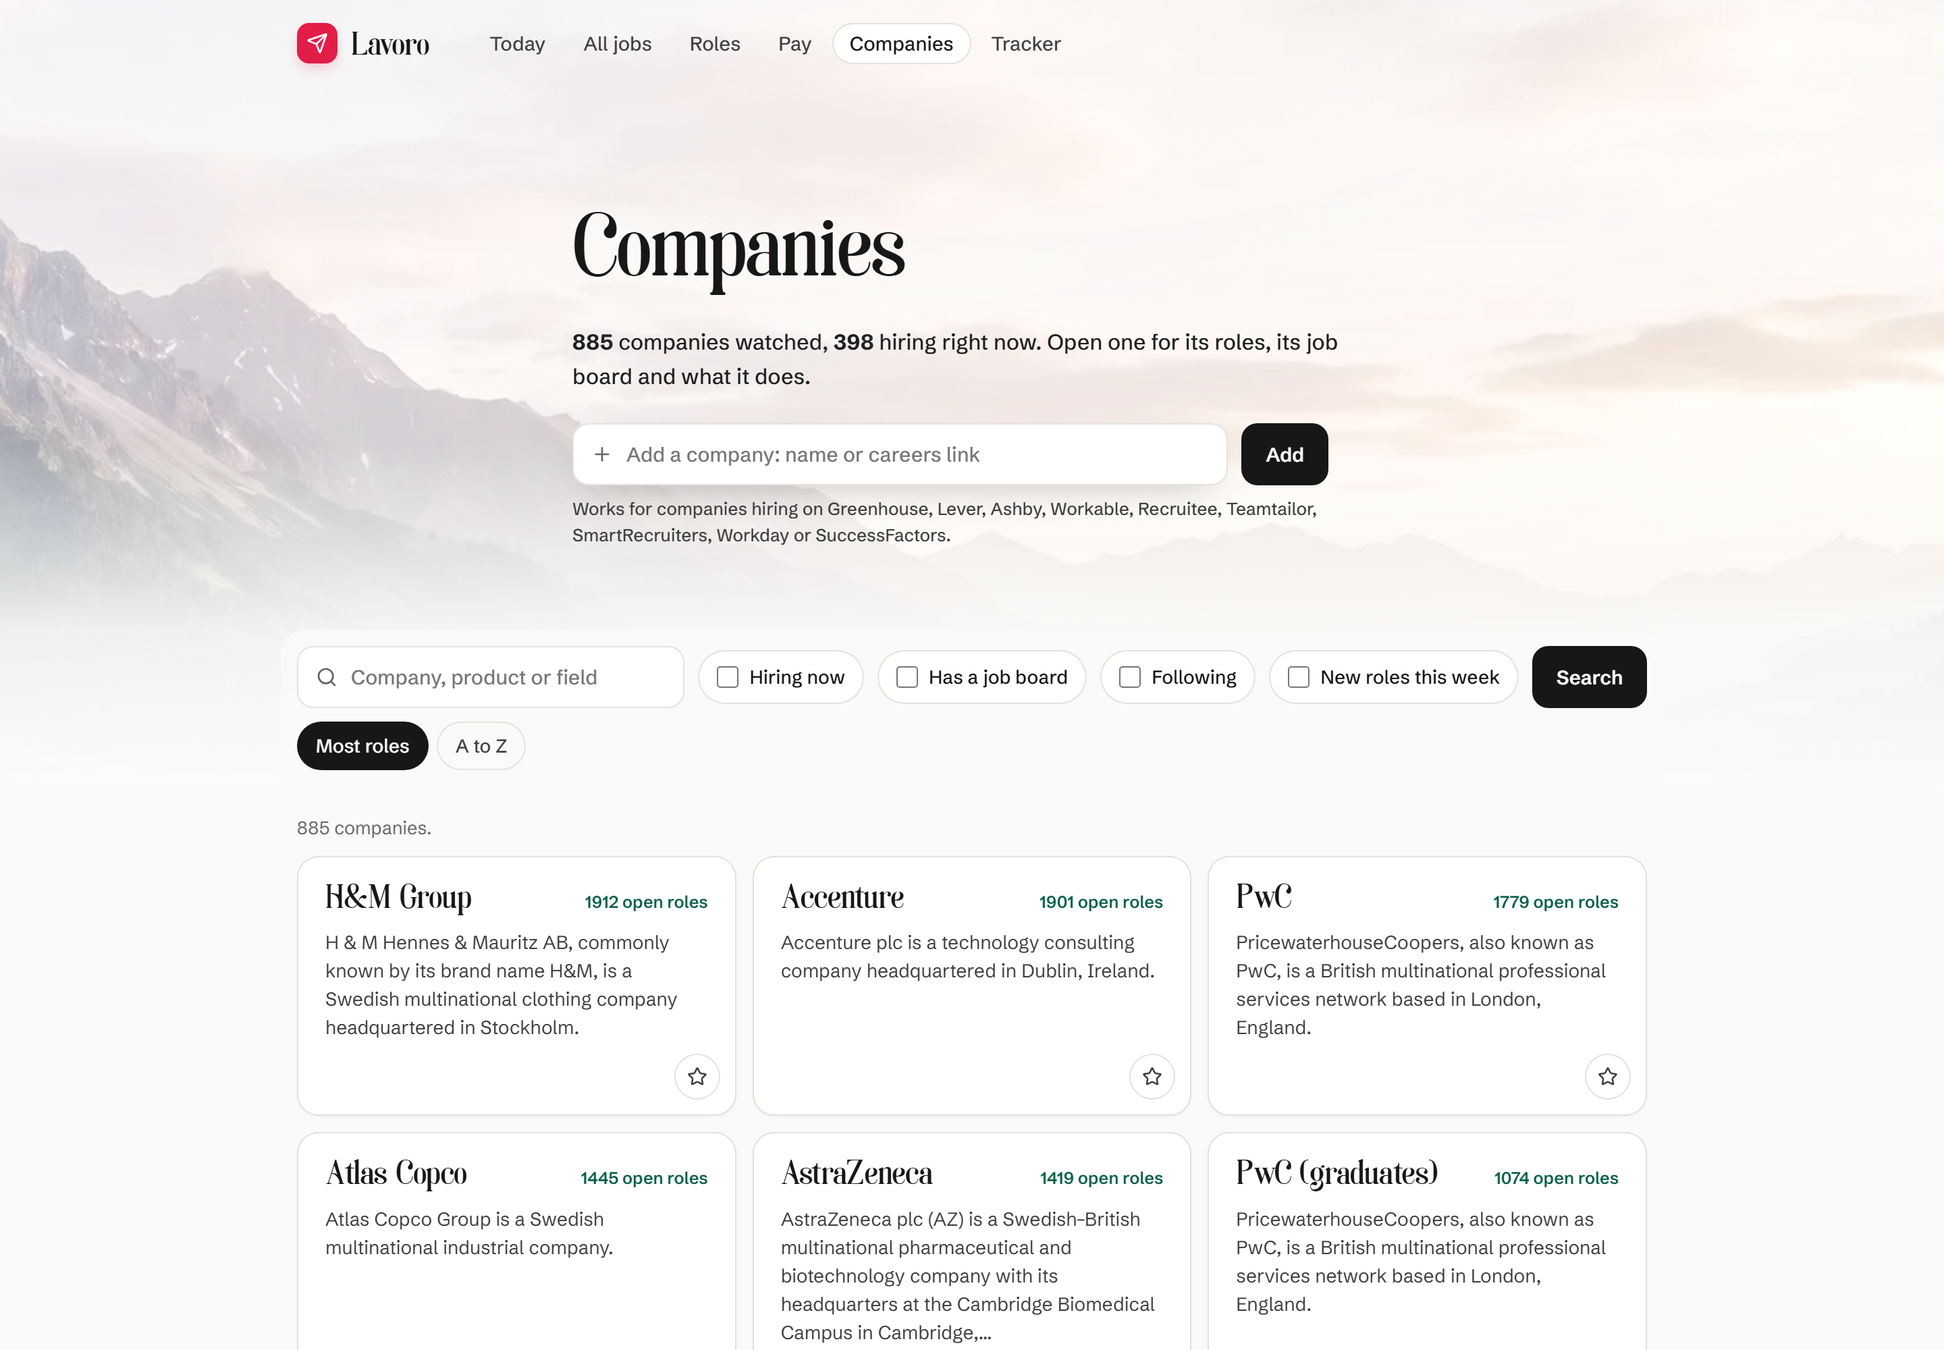
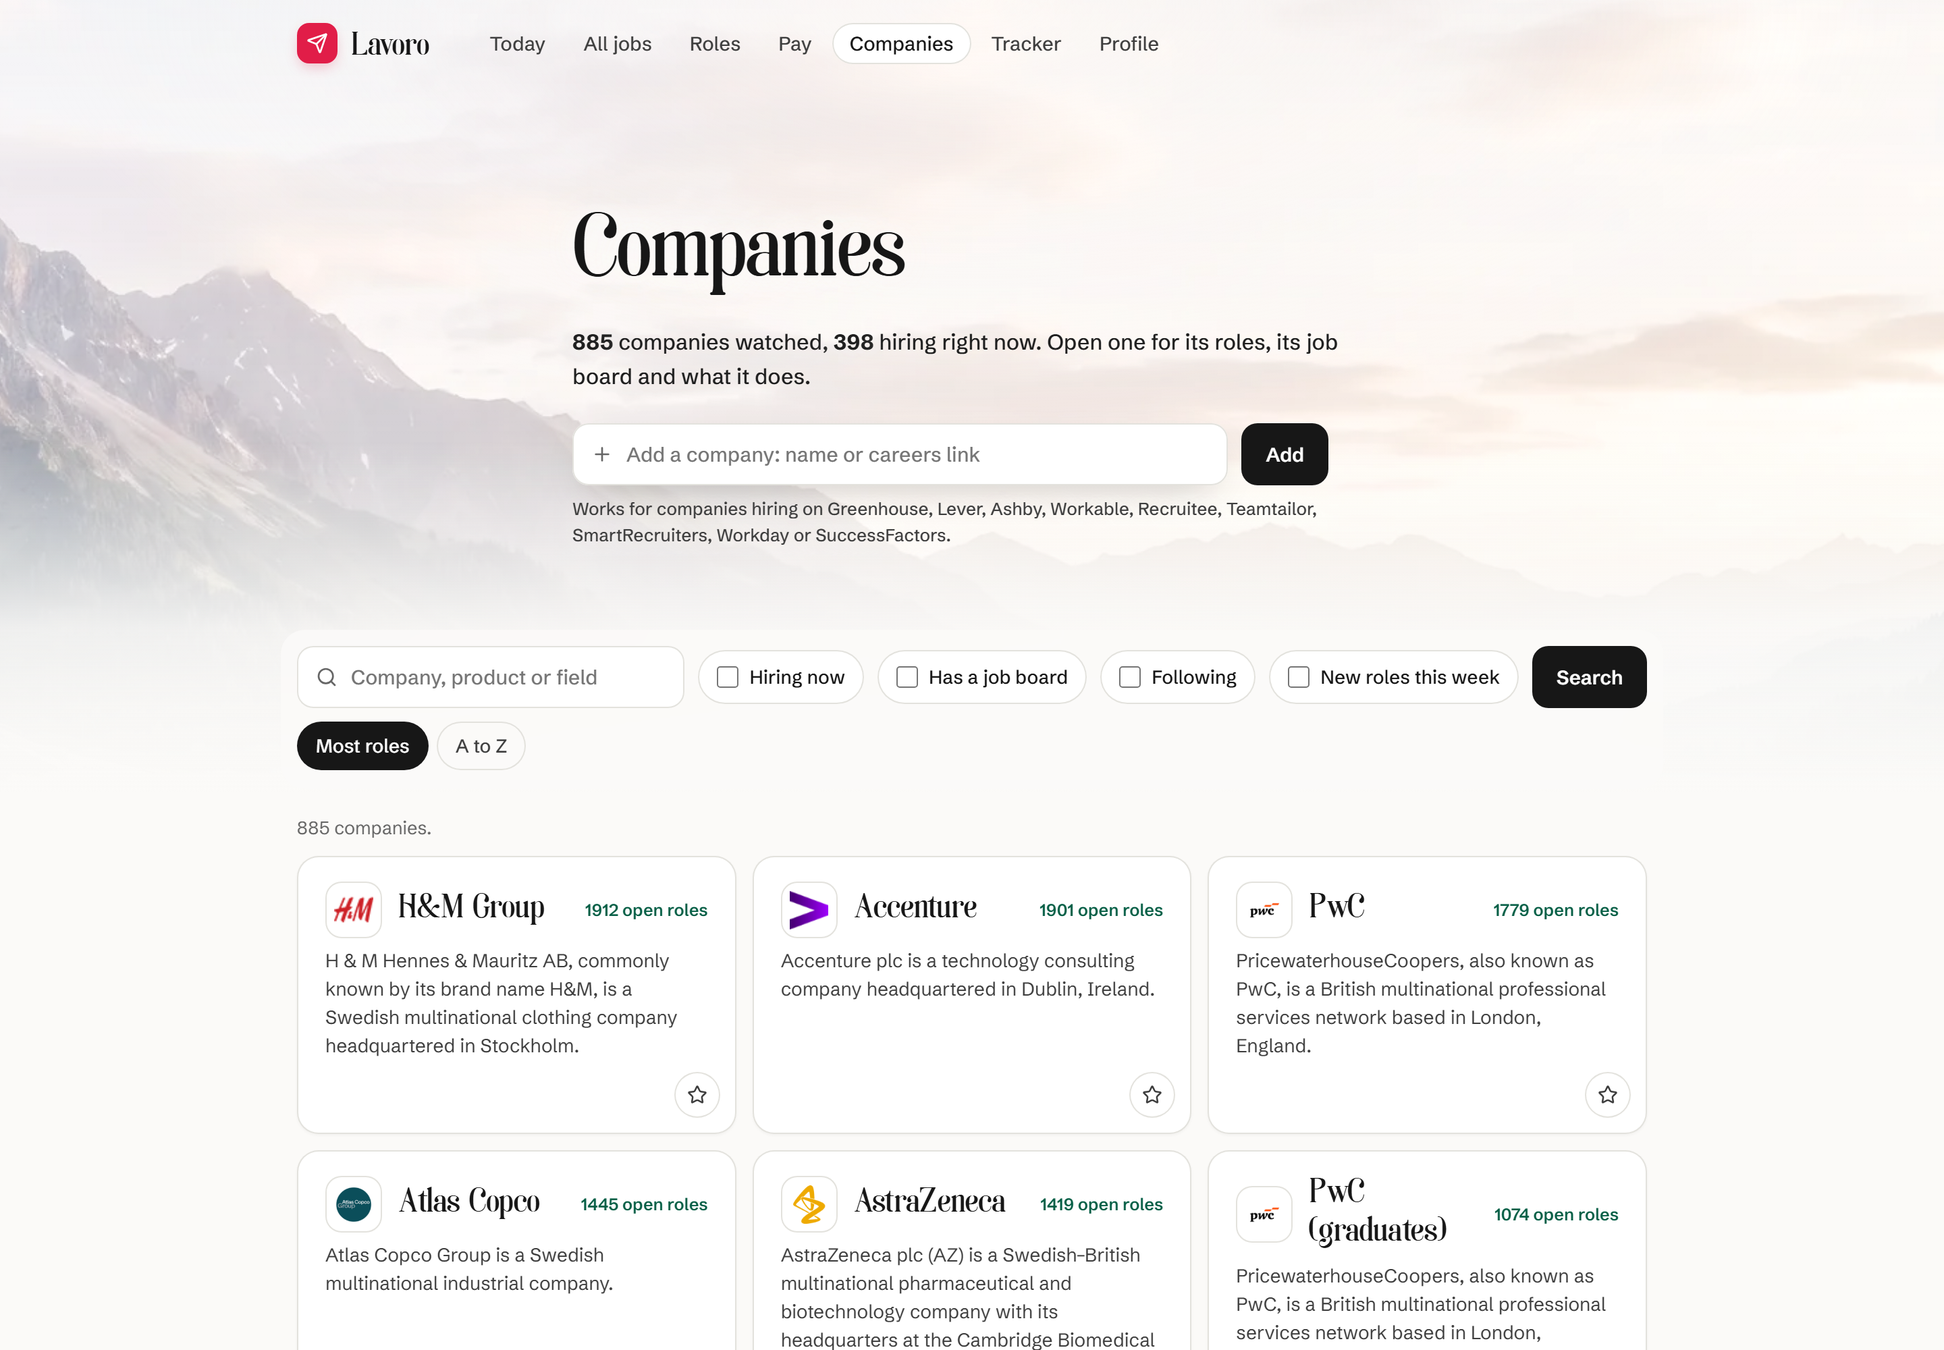
Profile page: see your profile, change search settings, build it again
- New /profile page, in the top bar: profile.md shown as a readable page
  with TODO lines marked, where it was built from, buttons to build it
  again from a new CV or portfolio link, an editor for what Lavoro
  searches for (saved to config.yaml, no run started), and the earlier
  versions kept in data/.
- The setup page offers "Back to your profile" when one already exists.
- Saving preferences no longer cuts role and place lists to 30 entries,
  and a save from the Profile page keeps hand-tuned Platsbanken queries.
- Retake four screenshots with the new company header and logos.

diff --git a/lavoro/profilepage.py b/lavoro/profilepage.py
@@ -1,0 +1,229 @@
+"""/profile: the profile Lavoro scores roles against and writes emails from, and what it searches for.
+
+Shows profile.md as a readable page, lets you change the search settings in config.yaml without starting a run,
+and links to the setup page to build the profile again from a new CV or portfolio link (the old profile is
+backed up first). Everything here stays on this computer.
+"""
+from __future__ import annotations
+
+import html
+import re
+from datetime import datetime
+from pathlib import Path
+
+from . import regions
+from .browse import _page
+from .config import ROOT
+from .digest import ago, e
+
+CSS = r"""
+.eyebrow{margin:0 0 10px;font:600 12px var(--sans);letter-spacing:.08em;text-transform:uppercase;color:var(--mute)}
+.pf-lede{margin:14px 0 0;color:var(--ink-2);font-size:17px;line-height:1.55;max-width:62ch}
+.pf-meta{margin:14px 0 0;font-size:13.5px;color:var(--mute)}
+.pf-acts{display:flex;flex-wrap:wrap;gap:10px;margin-top:22px}
+.pf-btn{display:inline-flex;align-items:center;gap:8px;height:44px;padding:0 18px;border-radius:999px;text-decoration:none;
+  font:600 14.5px var(--sans);color:var(--ink);background:rgba(255,255,255,.6);-webkit-backdrop-filter:blur(10px);backdrop-filter:blur(10px);
+  box-shadow:0 0 0 1px rgba(23,23,23,.12) inset;border:0;cursor:pointer}
+.pf-btn:hover{background:#fff;box-shadow:0 0 0 1px rgba(23,23,23,.3) inset}
+.pf-btn.main{background:var(--ink);color:#fff;box-shadow:none}.pf-btn.main:hover{background:#000}
+.pf-btn svg{width:16px;height:16px}
+.pf-note{margin:12px 0 0;font-size:13px;color:var(--mute);max-width:62ch}
+.pf-grid{display:grid;grid-template-columns:minmax(0,1fr) 380px;gap:24px;align-items:start;margin-top:8px}
+.pf-side{position:sticky;top:84px;display:flex;flex-direction:column;gap:20px}
+.pf-card{background:#fff;border-radius:20px;box-shadow:0 0 0 1px var(--line) inset;padding:26px 28px}
+.pf-card>h2{margin:0 0 4px}.pf-card>.sub{margin:0 0 18px}
+.todo-n{display:inline-flex;align-items:center;height:28px;padding:0 12px;border-radius:999px;font:600 13px var(--sans);
+  background:var(--amber-wash);color:var(--amber-ink);margin-left:8px;vertical-align:4px}
+.doc{font-size:15px;line-height:1.65;color:var(--ink-2)}
+.doc h1{display:none}
+.doc h2{margin:26px 0 8px;font:400 26px/1.15 var(--serif);color:var(--ink);letter-spacing:-.01em}
+.doc h2:first-child{margin-top:0}
+.doc h3{margin:18px 0 6px;font:600 15.5px/1.35 var(--sans);color:var(--ink)}
+.doc p{margin:0 0 10px}
+.doc ul{margin:0 0 10px;padding-left:20px}.doc li{margin:4px 0}
+.doc strong{color:var(--ink);font-weight:600}
+.doc a{color:var(--ink);text-underline-offset:3px;word-break:break-word}
+.doc .todo{background:var(--amber-wash);color:var(--amber-ink);border-radius:6px;padding:1px 5px}
+.form{display:flex;flex-direction:column;gap:14px}
+.form label{display:flex;flex-direction:column;gap:6px;font:600 13px var(--sans);color:var(--ink-2)}
+.form label small{font-weight:400;color:var(--mute)}
+.form input[type=text],.form input[type=url],.form textarea,.form select{font:400 14.5px var(--sans);color:var(--ink);background:var(--inset);
+  border:0;border-radius:12px;padding:11px 13px;box-shadow:0 0 0 1px var(--line) inset;width:100%;box-sizing:border-box}
+.form textarea{resize:vertical;min-height:72px;line-height:1.45}
+.form input:focus,.form textarea:focus,.form select:focus{outline:2px solid var(--ink);outline-offset:1px;background:#fff}
+.form .check{flex-direction:row;align-items:center;gap:10px;font-weight:500;color:var(--ink)}
+.form .check input{width:18px;height:18px;accent-color:var(--ink)}
+.form .save{align-self:flex-start;height:42px;padding:0 20px;border:0;border-radius:12px;background:var(--ink);color:#fff;
+  font:600 14px var(--sans);cursor:pointer}
+.form .save:hover{background:#000}.form .save[disabled]{opacity:.6;cursor:progress}
+.form .err{display:none;margin:0;font-size:13.5px;color:var(--rose-ink)}.form .err.on{display:block}
+.olds{margin:0;padding:0;list-style:none;font-size:13.5px;color:var(--ink-2)}
+.olds li{padding:8px 0;border-top:1px solid var(--line)}.olds li:first-child{border-top:0;padding-top:0}
+.olds code{font-size:12px;color:var(--mute);background:none;padding:0}
+@media (max-width:980px){.pf-grid{grid-template-columns:minmax(0,1fr)}.pf-side{position:static}}
+@media (max-width:640px){.pf-card{padding:20px 16px}}
+"""
+
+JS = r"""
+(()=>{
+const form=document.getElementById('prefs');if(!form)return;
+const list=s=>s.split(/[\n,;]+/).map(x=>x.trim()).filter(Boolean);
+const err=form.querySelector('.err'), save=form.querySelector('.save');
+let region=form.region.value;
+form.addEventListener('submit',async ev=>{ev.preventDefault();err.classList.remove('on');save.disabled=true;
+  try{
+    await api('/api/preferences',{name:form.name.value,portfolio:form.portfolio.value,linkedin:form.linkedin.value,
+      titles:list(form.titles.value),locations:list(form.locations.value),remote_ok:form.remote.checked,in_sweden:form.sweden.checked,keep_queries:true});
+    let extra='';
+    if(form.region.value!==region){const r=await api('/api/region',{region:form.region.value});region=form.region.value;
+      extra=r.reopened?` ${r.reopened.toLocaleString()} earlier roles will be checked again.`:''}
+    say('Saved. The next run searches with these.'+extra)}
+  catch(e){err.textContent=e.message||'Could not save.';err.classList.add('on')}
+  finally{save.disabled=false}});
+})();
+"""
+
+
+# ---------------------------------------------------------------- profile.md → html
+_LINK = re.compile(r"\[([^\]]+)\]\((https?://[^)\s]+)\)")
+_URL = re.compile(r"(?<![\"'>=])(https?://[^\s<)]+)")
+
+
+def _inline(text: str) -> str:
+    s = html.escape(text, quote=False)
+    s = _LINK.sub(lambda m: f'<a href="{m.group(2)}" target="_blank" rel="noopener">{m.group(1)}</a>', s)
+    s = _URL.sub(lambda m: f'<a href="{m.group(1)}" target="_blank" rel="noopener">{m.group(1)}</a>', s)
+    s = re.sub(r"\*\*(.+?)\*\*", r"<strong>\1</strong>", s)
+    s = re.sub(r"(?<![\w*])\*(?!\s)(.+?)(?<!\s)\*(?![\w*])", r"<em>\1</em>", s)
+    s = re.sub(r"\bTODO\b[^<]*", lambda m: f'<span class="todo">{m.group(0)}</span>', s)
+    return s
+
+
+def to_html(md: str) -> str:
+    """The small part of Markdown profile.md uses: headings, bullets, bold, links, paragraphs."""
+    out, para, items = [], [], []
+
+    def flush():
+        if para:
+            out.append(f"<p>{_inline(' '.join(para))}</p>")
+            para.clear()
+        if items:
+            out.append("<ul>" + "".join(f"<li>{_inline(i)}</li>" for i in items) + "</ul>")
+            items.clear()
+
+    for raw in md.splitlines():
+        line = raw.rstrip()
+        m = re.match(r"^(#{1,3})\s+(.*)", line)
+        if m:
+            flush()
+            n = len(m.group(1))
+            out.append(f"<h{n}>{_inline(m.group(2))}</h{n}>")
+        elif re.match(r"^\s*[-*]\s+", line):
+            if para:
+                flush()
+            items.append(re.sub(r"^\s*[-*]\s+", "", line))
+        elif line.startswith((" ", "\t")) and items and line.strip():
+            items[-1] += " " + line.strip()  # a bullet that wraps onto the next line
+        elif not line.strip():
+            flush()
+        else:
+            if items:
+                flush()
+            para.append(line.strip())
+    flush()
+    return "".join(out)
+
+
+def _split_header(text: str) -> tuple[str, str]:
+    """(the note Lavoro wrote at the top, the profile itself)."""
+    m = re.match(r"\s*<!--(.*?)-->", text, re.S)
+    return (m.group(1).strip(), text[m.end():]) if m else ("", text)
+
+
+def _date(iso: str) -> str:
+    d = datetime.strptime(iso, "%Y-%m-%d")
+    return f"{d.day} {d:%B %Y}"
+
+
+def _backups() -> list[tuple[datetime, Path]]:
+    out = []
+    for p in (ROOT / "data").glob("profile.backup-*.md"):
+        m = re.search(r"(\d{8})-(\d{6})", p.name)
+        if m:
+            out.append((datetime.strptime(m.group(1) + m.group(2), "%Y%m%d%H%M%S"), p))
+    return sorted(out, reverse=True)
+
+
+# ---------------------------------------------------------------- the page
+def render(cfg) -> str:
+    me, search = cfg.get("me", {}) or {}, cfg.get("search", {}) or {}
+    path = ROOT / me.get("profile_file", "profile.md")
+    text = path.read_text(encoding="utf-8") if path.exists() else ""
+    note, md = _split_header(text)
+    todos = len(re.findall(r"\bTODO\b", md))
+    headline = ""
+    m = re.search(r"^##\s+Headline\s*\n+(.+?)(?:\n\s*\n|\n##)", md, re.S | re.M)
+    if m:
+        headline = " ".join(m.group(1).split())
+        headline = re.split(r"(?<=[.!?])\s", headline)[0]
+
+    src = ""
+    flat = " ".join(note.split())
+    sm = re.search(r"Built (?:by Lavoro )?(?:from (?P<a>.+?) )?on (?P<d>\d{4}-\d{2}-\d{2})(?: from (?P<b>.+?)\.(?:\s|$))?", flat)
+    if sm:
+        frm = (sm.group("a") or sm.group("b") or "").strip()
+        frm = frm if len(frm) <= 140 else frm[:137].rsplit(" ", 1)[0] + "…"
+        src = f"Built from {frm} on {_date(sm.group('d'))}." if frm else f"Built on {_date(sm.group('d'))}."
+    changed = ""
+    if path.exists():
+        changed = f"Last changed {ago(datetime.fromtimestamp(path.stat().st_mtime).isoformat())}."
+    meta = " ".join(x for x in (src, changed) if x)
+
+    name = (me.get("name") or "").strip()
+    hero = (f'<p class="eyebrow">Your profile</p><h1>{e(name) if name else "Your profile"}</h1>'
+            + (f'<p class="pf-lede">{e(headline)}</p>' if headline else "")
+            + (f'<p class="pf-meta">{e(meta)}</p>' if meta else "")
+            + f'<div class="pf-acts"><a class="pf-btn main" href="/welcome">Upload a new CV</a><a class="pf-btn" href="/welcome">Use a portfolio link</a></div>'
+            + '<p class="pf-note">Lavoro reads it and builds your profile again. Your current profile is kept as a backup '
+              'first, and your jobs, tracker and drafts stay as they are.</p>')
+
+    doc = to_html(md) if md.strip() else '<p>No profile yet. Upload a CV to make one.</p>'
+    profile_card = (f'<section class="pf-card"><h2>What Lavoro knows about you'
+                    + (f'<span class="todo-n">{todos} to fill in</span>' if todos else "") + '</h2>'
+                    f'<p class="sub">Every role is scored against this, and every email is written from it. Lavoro never '
+                    f'adds facts of its own. To change a line, edit <code>{e(path.name)}</code> in the Lavoro folder.</p>'
+                    f'<div class="doc">{doc}</div></section>')
+
+    titles = search.get("titles_include") or []
+    places = search.get("locations_include") or []
+    cur = regions.current(cfg)
+    opts = "".join(f'<option value="{k}"{" selected" if k == cur else ""}>{e(v)}</option>' for k, v in regions.LABELS.items())
+    jobtech = (search.get("jobtech") or {}).get("enabled", False)
+    form = (f'<section class="pf-card"><h2>What Lavoro looks for</h2>'
+            f'<p class="sub">Saved to <code>config.yaml</code>. The next run uses them; saving does not start one.</p>'
+            f'<form id="prefs" class="form" novalidate>'
+            f'<label>Your name<input type="text" name="name" value="{e(name)}" autocomplete="name"></label>'
+            f'<label>Roles to search for <small>One per line, or separated by commas.</small>'
+            f'<textarea name="titles" rows="7">{e(chr(10).join(titles))}</textarea></label>'
+            f'<label>Places <small>Cities or countries, one per line.</small>'
+            f'<textarea name="locations" rows="5">{e(chr(10).join(p for p in places if p != "remote"))}</textarea></label>'
+            f'<label>Region<select name="region">{opts}</select></label>'
+            f'<label class="check"><input type="checkbox" name="remote"{" checked" if search.get("remote_ok", True) else ""}>'
+            f'Remote roles are fine</label>'
+            f'<label class="check"><input type="checkbox" name="sweden"{" checked" if jobtech else ""}>'
+            f'Also search Platsbanken (Sweden)</label>'
+            f'<label>Portfolio<input type="url" name="portfolio" value="{e(me.get("portfolio") or "")}"></label>'
+            f'<label>LinkedIn<input type="url" name="linkedin" value="{e(me.get("linkedin") or "")}"></label>'
+            f'<p class="err" role="alert"></p><button class="save" type="submit">Save</button></form></section>')
+
+    olds = _backups()
+    old_card = ""
+    if olds:
+        items = "".join(f'<li>{d.day} {d:%B %Y}, {d:%H:%M}<br><code>data/{e(p.name)}</code></li>' for d, p in olds[:6])
+        more = f'<p class="pf-note">And {len(olds) - 6} older.</p>' if len(olds) > 6 else ""
+        old_card = (f'<section class="pf-card"><h2>Earlier versions</h2><p class="sub">Kept each time the profile was built '
+                    f'again. Copy one back over <code>{e(path.name)}</code> to return to it.</p><ul class="olds">{items}</ul>{more}</section>')
+
+    body = (f'<style>{CSS}</style><div class="pf-grid">{profile_card}<div class="pf-side">{form}{old_card}</div></div>')
+    return _page("Lavoro · Your profile", "/profile", hero, body).replace("</body>", f"<script>{JS}</script></body>", 1)
+

diff --git a/lavoro/onboard.py b/lavoro/onboard.py
@@ -265,6 +265,7 @@ class Preferences(BaseModel):
     locations: list[str] = []
     remote_ok: bool = True
     in_sweden: bool = False
+    keep_queries: bool = False      # the Profile page: leave hand-tuned Platsbanken searches alone
 
 
 def _clean_list(xs: list[str], limit: int = 30) -> list[str]:
@@ -280,8 +281,8 @@ def save_preferences(p: Preferences) -> None:
     cfg_path = ROOT / "config.yaml"
     text = cfg_path.read_text(encoding="utf-8")
     places = [part for loc in p.locations for part in re.split(r"[,/()]+", str(loc))]
-    titles = _clean_list(p.titles)
-    locs = [x for x in _clean_list(places) if x != "remote" and not x.startswith("remote ")]
+    titles = _clean_list(p.titles, 100)
+    locs = [x for x in _clean_list(places, 100) if x != "remote" and not x.startswith("remote ")]
     if not titles:
         raise SetupError("Add at least one role to search for.")
     if p.linkedin and not _is_linkedin(p.linkedin):
@@ -296,7 +297,10 @@ def save_preferences(p: Preferences) -> None:
         (["search", "jobtech", "enabled"], bool(p.in_sweden)),
     ]
     if p.in_sweden:
-        edits.append((["search", "jobtech", "queries"], titles[:8]))
+        import yaml
+        current = ((yaml.safe_load(text) or {}).get("search", {}).get("jobtech") or {}).get("queries")
+        if not (p.keep_queries and current):  # setup starts them from the roles; later saves keep yours
+            edits.append((["search", "jobtech", "queries"], titles[:8]))
     for path, value in edits:
         try:
             text = set_yaml(text, path, value)

diff --git a/lavoro/server.py b/lavoro/server.py
@@ -12,6 +12,7 @@ POST /api/profile/upload     {"name": "cv.pdf", "data": "<base64>"}  → builds 
 POST /api/profile/link       {"url": "https://..."}                   → builds profile.md from a portfolio site
 POST /api/preferences        {"titles": [...], "locations": [...], ...} → saves search settings to config.yaml
 GET  /tracker, /tracker.csv   the pipeline tracker, and its CSV download
+GET  /profile                your profile, what Lavoro searches for, and a way to build the profile again
 POST /api/pipeline           {"track": key} | {"add": true, company, title, url} | {"id", "field", "value"} | {"id", "remove": true}
 POST /api/write              {"id", "kind": "kit" | "followup"} Claude writes an application kit or a follow-up
 POST /api/mark               {"key": ..., "status": "sent" | "skipped" | "drafted"}
@@ -208,6 +209,9 @@ def make_handler(port: int):
                 finally:
                     con.close()
                 return self._send(200, page.encode("utf-8"), "text/html; charset=utf-8")
+            if path == "/profile":  # your profile and what Lavoro searches for
+                from . import profilepage
+                return self._send(200, profilepage.render(self._cfg()).encode("utf-8"), "text/html; charset=utf-8")
             if path in ("/terms", "/privacy"):  # short links to the matching part of /legal
                 self.send_response(302)
                 self.send_header("Location", "/legal" + ("#privacy" if path == "/privacy" else ""))

diff --git a/lavoro/welcome.py b/lavoro/welcome.py
@@ -418,11 +418,15 @@ if(location.hash==='#run'){show('go');poll2()}
 
 def render(cfg) -> str:
     check = icon("check")
+    from .onboard import needs_setup
+    # Someone who already has a profile came here to build it again: give them a way back without changing anything.
+    right = ('<a class="pill" href="/profile">Back to your profile</a>' if not needs_setup(cfg)
+             else '<span class="pill quiet">Runs on your computer</span>')
     return f"""{head("Lavoro · Welcome")}<style>{CSS}</style></head>
 <body class="welcome" data-live="1">
 {scene()}
 <div class="bar"><div class="wrap"><span class="brand"><span class="mark">{icon("send")}</span><span class="wm">Lavoro</span></span>
-<span class="bar-right"><span class="pill quiet">Runs on your computer</span></span></div></div>
+<span class="bar-right">{right}</span></div></div>
 <template id="xicon">{ic("x")}</template>
 <div class="dropzone" aria-hidden="true"><p>Drop your CV to start</p></div>
 

diff --git a/lavoro/digest.py b/lavoro/digest.py
@@ -431,7 +431,7 @@ def scene() -> str:
 
 CURRENT = ' aria-current="page"'  # outside the f-string below: Python before 3.12 cannot reuse its quote
 NAV = [("/", "Today"), ("/jobs", "All jobs"), ("/roles", "Roles"), ("/pay", "Pay"), ("/companies", "Companies"),
-       ("/tracker", "Tracker")]
+       ("/tracker", "Tracker"), ("/profile", "Profile")]
 
 
 def bar(active: str | None, right: str = "") -> str:
